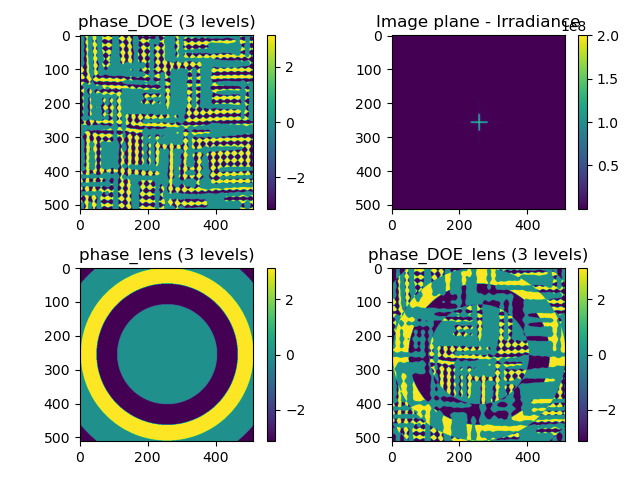
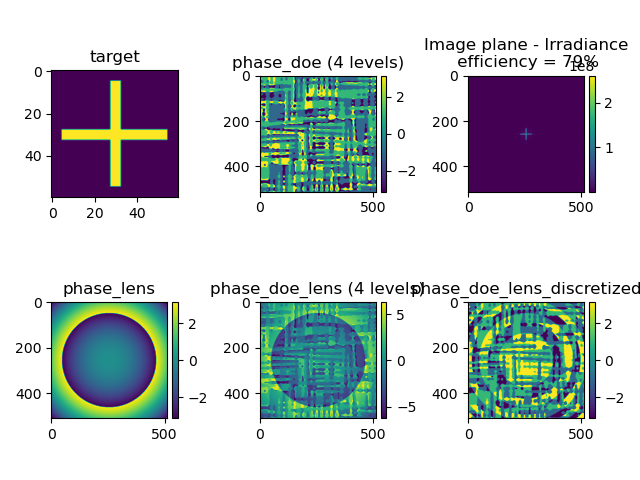
better subplots

diff --git a/doe/ifta.py b/doe/ifta.py
@@ -1,6 +1,6 @@
 # -*- coding: utf-8 -*-
 """
-Created on Fri Mar  1 09:58:42 2024
+Created on Fri Mar  1 09:58:42 2024 under Python 3.11.7
 
 @author: f24lerou
 """
@@ -35,22 +35,22 @@ def ifta(target, doe_size, *, n_iter = 25, rfact = 1.2, n_levels = 0, compute_ef
     target_amp = np.asarray(target, float)       # conversion target to float
     target_amp = np.sqrt(target_amp)             # get target amplitude
 
-    amp_image = np.zeros(doe_size)                                                              # Amplitude output field = 0
+    amp_image = np.zeros(doe_size)                                                                             # Amplitude output field = 0
     amp_image[doe_size[0]//2-target_size[0]//2:doe_size[0]//2-target_size[0]//2+target_size[0], 
               doe_size[1]//2-target_size[1]//2:doe_size[1]//2-target_size[1]//2+target_size[1]] = target_amp   # Amplitude = target image in window
-    phase_image = 2*np.pi*np.random.rand(doe_size[0], doe_size[1])                              # Random image phase    
-    field_image = amp_image*np.exp(1j * phase_image)                                            # Initiate input field
+    phase_image = 2*np.pi*np.random.rand(doe_size[0], doe_size[1])                                             # Random image phase    
+    field_image = amp_image*np.exp(1j * phase_image)                                                           # Initiate input field
     
     # First loop - continous phase screen computation
     
     for iter in range(n_iter):
-        field_DOE = np.fft.ifft2(np.fft.ifftshift(field_image)) # field DOE = TF-1 field image
-        phase_DOE = np.angle(field_DOE)                         # save DOE phase
-        field_DOE = np.exp(phase_DOE * 1j)                      # force the amplitude of the DOE to 1 (no losses)
-        field_image = np.fft.fftshift(np.fft.fft2(field_DOE))   # field image = TF field DOE
-        phase_image = np.angle(field_image)                     # save image phase
+        field_DOE = np.fft.ifft2(np.fft.ifftshift(field_image))                                                         # field DOE = TF-1 field image
+        phase_DOE = np.angle(field_DOE)                                                                                 # save DOE phase
+        field_DOE = np.exp(phase_DOE * 1j)                                                                              # force the amplitude of the DOE to 1 (no losses)
+        field_image = np.fft.fftshift(np.fft.fft2(field_DOE))                                                           # field image = TF field DOE
+        phase_image = np.angle(field_image)                                                                             # save image phase
         amp_image[doe_size[0]//2-target_size[0]//2:doe_size[0]//2-target_size[0]//2+target_size[0], 
-                  doe_size[1]//2-target_size[1]//2:doe_size[1]//2-target_size[1]//2+target_size[1]] = rfact*target_amp # force the amplitude of the DOE to the target amplitude inside the ROI. Outside the ROI, the amplitude is free
+                  doe_size[1]//2-target_size[1]//2:doe_size[1]//2-target_size[1]//2+target_size[1]] = rfact*target_amp  # force the amplitude of the DOE to the target amplitude inside the ROI. Outside the ROI, the amplitude is free
         field_image = amp_image*np.exp(phase_image * 1j)       # new image field computation
 
     # Second loop - discretized phase screen
@@ -72,8 +72,8 @@ def ifta(target, doe_size, *, n_iter = 25, rfact = 1.2, n_levels = 0, compute_ef
 
         # Compute the image finally formed and the efficiency
     
-        recovery = np.absolute(np.fft.fftshift(np.fft.fft2(field_DOE)))**2 # Final image = |TF field DOE|^2
-        efficiency = np.sum(recovery[doe_size[0]//2-target_size[0]//2:doe_size[0]//2-target_size[0]//2+target_size[0], 
+        recovery = np.absolute(np.fft.fftshift(np.fft.fft2(field_DOE)))**2                                                  # Final image = |TF field DOE|^2
+        efficiency = np.sum(recovery[doe_size[0]//2-target_size[0]//2:doe_size[0]//2-target_size[0]//2+target_size[0],      # efficiency = energy inside target zone / total energy
                   doe_size[1]//2-target_size[1]//2:doe_size[1]//2-target_size[1]//2+target_size[1]])/np.sum(recovery)
         
         return phase_DOE, recovery, efficiency

diff --git a/doe/main_ifta.py b/doe/main_ifta.py
@@ -1,9 +1,11 @@
 # -*- coding: utf-8 -*-
 """
-Created on Fri Mar  1 10:07:22 2024
+Created on Fri Mar  1 10:07:22 2024 under Python 3.11.7
 
 @author: f24lerou
 """
+
+from mpl_toolkits.axes_grid1 import make_axes_locatable
 
 import numpy as np
 import matplotlib.pyplot as plt
@@ -30,7 +32,7 @@ width = 5
 
 doe_size = [512, 512]
 
-n_levels = 3
+n_levels = 4
 
 d1 = 0.01               # [m] distance laser - DOE
 d2 = 0.05               # [m] distance DOE - image plane
@@ -40,35 +42,63 @@ wavelength = 1e-6       # [m] wavelength
 
 # 8<--------------------- main ------------------------------------------
 
-target = cross(sizeCross=sizeCross, width=width)
+target = cross(sizeCross=sizeCross, width=width, sizeSupport = [sizeCross+10,sizeCross+10])
 
-phase_DOE, recovery, efficiency = ifta(target, doe_size, n_levels=n_levels, compute_efficiency=1)
+phase_doe, recovery, efficiency = ifta(target, doe_size, n_levels=n_levels, compute_efficiency=1)
 
 f = computeFocal(d1, d2) # focal length for source - image plane conjugation
-phase_lens = lens(f, wavelength=wavelength, sizeSupport=doe_size, samplingStep=doe_length/doe_size[0], n_levels=n_levels)
+phase_lens = lens(f, wavelength=wavelength, sizeSupport=doe_size, samplingStep=doe_length/doe_size[0], n_levels=0)
 
-phase_DOE_lens = discretization(phase_DOE+phase_lens, n_levels)
+phase_doe_lens = phase_doe + phase_lens
+phase_doe_lens_discretized = discretization(phase_doe+phase_lens, n_levels)
 
 # 8<-------------------- results ----------------------------------------
 
+np.save(doeFilename+"crossDoe", phase_doe)
+np.save(doeFilename+"crossDoeLens", phase_doe_lens)
+
+
 print("efficiency = "+str(efficiency))
 
-fig, axs = plt.subplots(nrows=2, ncols=2)
-fig1=axs[0,0].imshow(phase_DOE)
-axs[0,0].set_title("phase_DOE ("+str(n_levels)+" levels)")
-plt.colorbar(fig1, ax=axs[0,0])
-fig2=axs[0,1].imshow(recovery)
-axs[0,1].set_title("Image plane - Irradiance")
-plt.colorbar(fig2, ax=axs[0,1])
-fig3=axs[1,0].imshow(phase_lens)
-axs[1,0].set_title("phase_lens ("+str(n_levels)+" levels)")
-plt.colorbar(fig3, ax=axs[1,0])
-fig4=axs[1,1].imshow(phase_DOE_lens)
-axs[1,1].set_title("phase_DOE_lens ("+str(n_levels)+" levels)")
-plt.colorbar(fig4, ax=axs[1,1])
+fig, axs = plt.subplots(nrows=2, ncols=3)
+
+fig00=axs[0,0].imshow(target, aspect="equal")
+axs[0,0].set_title("target")
+
+fig01=axs[0,1].imshow(phase_doe)
+axs[0,1].set_title("phase_doe ("+str(n_levels)+" levels)")
+divider = make_axes_locatable(axs[0,1])
+cax = divider.append_axes("right", size="5%", pad=0.05)
+plt.colorbar(fig01, cax=cax)
+
+fig02=axs[0,2].imshow(recovery)
+axs[0,2].set_title("Image plane - Irradiance\n efficiency = "+str(round(efficiency*100))+"%")
+divider = make_axes_locatable(axs[0,2])
+cax = divider.append_axes("right", size="5%", pad=0.05)
+plt.colorbar(fig02, cax=cax)
+
+fig10=axs[1,0].imshow(phase_lens)
+axs[1,0].set_title("phase_lens")
+divider = make_axes_locatable(axs[1,0])
+cax = divider.append_axes("right", size="5%", pad=0.05)
+plt.colorbar(fig10, cax=cax)
+
+fig11=axs[1,1].imshow(phase_doe_lens)
+axs[1,1].set_title("phase_doe_lens ("+str(n_levels)+" levels)")
+divider = make_axes_locatable(axs[1,1])
+cax = divider.append_axes("right", size="5%", pad=0.05)
+plt.colorbar(fig11, cax=cax)
+
+fig12=axs[1,2].imshow(phase_doe_lens_discretized)
+axs[1,2].set_title("phase_doe_lens_discretized")
+divider = make_axes_locatable(axs[1,2])
+cax = divider.append_axes("right", size="5%", pad=0.05)
+plt.colorbar(fig12, cax=cax)
 
 plt.tight_layout()
 plt.savefig(dirc+r"figures\\"+"test.png")
+
+
 
 
 

diff --git a/metalenses/main_metalenses.py b/metalenses/main_metalenses.py
@@ -1,6 +1,6 @@
 # -*- coding: utf-8 -*-
 """
-Created on Fri Mar  1 16:19:09 2024
+Created on Fri Mar  1 16:19:09 2024 under Python 3.11.7
 
 @author: f24lerou
 """
@@ -8,9 +8,52 @@ Created on Fri Mar  1 16:19:09 2024
 import numpy as np
 import matplotlib.pyplot as plt
 
+from doe.tools import computeFocal, discretization
 from doe.phaseMasks import lens, tilt
 
-plt.imshow(tilt(deltaPhi=8*np.pi, n_levels=0))
+# 8<---------------- Directories and filenames ---------------------------
+
+dirc = r"D:\francoisLeroux\codes\metalenses\\"
+pmFilename = dirc + r"results\\"
+
+pm_size = [512, 512]
+
+n_levels = 4
+
+d1 = 0.01              # [m] distance laser - pm
+d2 = 0.03              # [m] distance pm - image plane
+pm_length = 500e-6     # [m] length of the side of the DOE
+
+height = 0.001          # [m] height of the image point with respect to the optical axis
+
+
+wavelength = 1e-6      # [m] wavelength
+
+deltaPhi = 2*np.pi/wavelength * height/d2 * pm_length   # [rad] phase difference between the two edges of the phase screen
+pm_tilt = tilt(deltaPhi=deltaPhi, sizeSupport=pm_size)
+
+samplingStep=pm_length/pm_size[0]
+
+f = computeFocal(d1, d2)
+pm_lens = lens(f, wavelength=wavelength, sizeSupport=pm_size, samplingStep=samplingStep)
+
+pm = pm_tilt + pm_lens
+pm_discretized = discretization(pm, n_levels=n_levels)
+
+
+fig, axs = plt.subplots(nrows=1, ncols=4)
+
+fig0=axs[0].imshow(pm_lens)
+axs[0].set_title("pm_lens")
+
+fig1=axs[1].imshow(pm_tilt)
+axs[1].set_title("pm_tilt")
+
+fig2=axs[2].imshow(pm)
+axs[2].set_title("pm")
+
+fig3=axs[3].imshow(pm_discretized)
+axs[3].set_title("pm_discretized")
 
 
 

diff --git a/doe/phaseMasks.py b/doe/phaseMasks.py
@@ -1,6 +1,6 @@
 # -*- coding: utf-8 -*-
 """
-Created on Wed Feb 28 11:16:02 2024
+Created on Wed Feb 28 11:16:02 2024 under Python 3.11.7
 
 @author: f24lerou
 """
@@ -45,7 +45,7 @@ def lens(f, *, wavelength=0.5e-6, sizeSupport=[128, 128], samplingStep=1e-4, n_l
     return phase
     
 
-def tilt(deltaPhi, *, wavelength=0.5e-6, sizeSupport=[128, 128], samplingStep=1e-4, n_levels=0):
+def tilt(deltaPhi, *, sizeSupport=[128, 128], samplingStep=1e-4, n_levels=0):
     
 #8<---------------------------------------------------------------------------------------------
 # tilt : generate a phase screen correspnding to a tilt in x
@@ -60,7 +60,6 @@ def tilt(deltaPhi, *, wavelength=0.5e-6, sizeSupport=[128, 128], samplingStep=1e
 #
 #          OPTIONAL :  wavelenght : wavelenght {float}[m] - default value: 0.5 µm
 #                      sizeSupport : resolution of the support {tupple (1x2)}[pixel] - default value: [128, 128]
-#                      samplingStep : physical length of on pixel of the support {float}[m] - default value: 1 mm
 #                      n_levels : number of levels over which the phase needs to be quantified. {int} - default value: 0, no discretization
 #                     
 # Outputs : phase, values between -pi and pi

diff --git a/doe/tools.py b/doe/tools.py
@@ -1,6 +1,6 @@
 # -*- coding: utf-8 -*-
 """
-Created on Thu Feb 29 13:44:30 2024
+Created on Thu Feb 29 13:44:30 2024 under Python 3.11.7
 
 @author: f24lerou
 """
@@ -57,7 +57,7 @@ def discretization(phase, n_levels):
     
     else:
     
-        phase = np.angle(np.exp(1j*phase))                            # phase values between -pi and pi 
+        #phase = np.angle(np.exp(1j*phase))                            # phase values between -pi and pi 
         phase = np.round((phase+np.pi)/ (2*np.pi) * (n_levels-1))     # phase discretization. phase values between 0 and n_levels-1
         phase = 2*np.pi / (n_levels-1) * phase - np.pi                # discretized phase between -pi and pi
     

diff --git a/doe/paterns.py b/doe/paterns.py
@@ -1,6 +1,6 @@
 # -*- coding: utf-8 -*-
 """
-Created on Wed Feb 28 08:45:19 2024
+Created on Wed Feb 28 08:45:19 2024 under Python 3.11.7
 
 @author: f24lerou
 """
